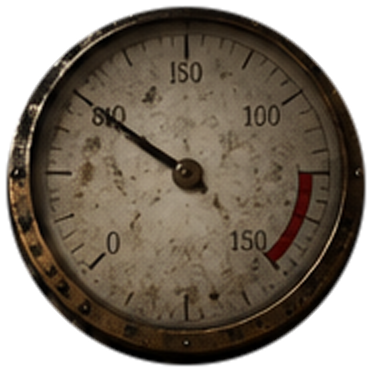
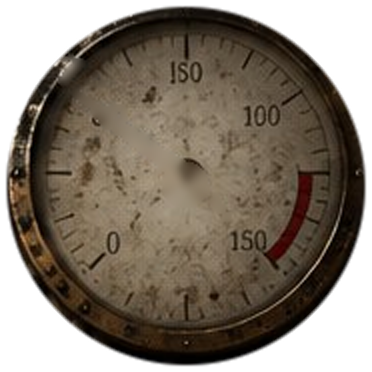
Steampunk gauges: baked needles removed, live animated needles with surges
Claude-Session: https://claude.ai/code/session_016GmCMcG9C3TPKPraZkjEse

Changed region(s): [[0.1478, 0.1478, 0.621, 0.5914]]

diff --git a/docs/index.html b/docs/index.html
@@ -1173,7 +1173,8 @@ function buildWorks(){
   lit(o,back);lit(f,front);
   for(const q of spriteG){const D=q.r*2.4,t=document.createElement('canvas');t.width=t.height=Math.round(D*d);const tx=t.getContext('2d');
     tx.drawImage(q.im,0,0,t.width,t.height);tx.globalCompositeOperation='source-atop';tx.fillStyle=`rgba(0,0,0,${Math.max(0,Math.min(0.75,1.05-lightAt(q.x,q.y)))})`;tx.fillRect(0,0,t.width,t.height);
-    f.fillStyle='rgba(0,0,0,.6)';f.beginPath();f.arc(q.x+q.r*0.12,q.y+q.r*0.2,D*0.48,0,7);f.fill();f.drawImage(t,q.x-D/2,q.y-D/2,D,D)}
+    f.fillStyle='rgba(0,0,0,.6)';f.beginPath();f.arc(q.x+q.r*0.12,q.y+q.r*0.2,D*0.48,0,7);f.fill();f.drawImage(t,q.x-D/2,q.y-D/2,D,D);
+    gauges.push({x:q.x,y:q.y,r:q.r,ph:rnd()*7,sp:0.4+rnd()*1.2,base:0.3+rnd()*0.3})}
   // bulb light: hanging Edison bulbs with a halo (drawn additively, flickers a little)
   const [glow,gl]=mk();
   for(const [bx,by,c] of B.bulbs){
@@ -1209,12 +1210,19 @@ function drawWorks(dt){
   const move=reduce?0:dt,t=performance.now()/1000;
   for(const g2 of w.gears){g2.a+=g2.speed*move;cg.save();cg.translate(g2.x,g2.y);cg.rotate(g2.a);cg.drawImage(g2.c,-g2.s/2,-g2.s/2,g2.s,g2.s);cg.restore()}
   cg.drawImage(w.front,0,0,CW,CH);
-  for(const q of w.gauges){const a=Math.PI*0.75+Math.PI*1.5*(q.base+0.12*Math.sin(t*q.sp*0.35+q.ph)+(reduce?0:0.012*Math.sin(t*19+q.ph)));
-    const lv=Math.min(1,w.lightAt(q.x,q.y));cg.strokeStyle=`rgb(${Math.round(20*lv)},${Math.round(14*lv)},${Math.round(8*lv)})`;cg.lineWidth=Math.max(1.2,q.r*0.05);cg.lineCap='round';
-    cg.beginPath();cg.moveTo(q.x-Math.cos(a)*q.r*0.16,q.y-Math.sin(a)*q.r*0.16);cg.lineTo(q.x+Math.cos(a)*q.r*0.72,q.y+Math.sin(a)*q.r*0.72);cg.stroke();
-    cg.fillStyle='#24180c';cg.beginPath();cg.arc(q.x,q.y,q.r*0.09,0,7);cg.fill();
-    // glass glare
-    cg.strokeStyle='rgba(255,250,235,.12)';cg.lineWidth=q.r*0.1;cg.beginPath();cg.arc(q.x,q.y,q.r*0.78,Math.PI*1.1,Math.PI*1.45);cg.stroke()}
+  // live needles: a slow drift, a nervous tremble, and now and then a surge toward the red
+  for(const q of w.gauges){
+    const surge=Math.max(0,Math.sin(t*0.23+q.ph*3))**12*0.22;
+    const v=q.base+0.1*Math.sin(t*q.sp*0.35+q.ph)+surge+(reduce?0:0.01*Math.sin(t*21+q.ph)+0.006*Math.sin(t*37+q.ph*2));
+    const a=Math.PI*0.75+Math.PI*1.5*Math.min(0.97,v),lv=Math.min(1,w.lightAt(q.x,q.y)*1.1),L=q.r*0.74,T=q.r*0.2,hw=q.r*0.035;
+    cg.save();cg.translate(q.x,q.y);
+    cg.save();cg.translate(q.r*0.03,q.r*0.05);cg.rotate(a);cg.fillStyle='rgba(0,0,0,.35)';cg.beginPath();cg.moveTo(-T,-hw);cg.lineTo(L,-hw*0.15);cg.lineTo(L,hw*0.15);cg.lineTo(-T,hw);cg.fill();cg.restore();
+    cg.rotate(a);const c0=Math.round(26*lv),c1=Math.round(18*lv);cg.fillStyle=`rgb(${c0},${c1},${Math.round(12*lv)})`;
+    cg.beginPath();cg.moveTo(-T,-hw*1.3);cg.lineTo(L,-hw*0.12);cg.lineTo(L+q.r*0.02,0);cg.lineTo(L,hw*0.12);cg.lineTo(-T,hw*1.3);cg.closePath();cg.fill();
+    cg.beginPath();cg.arc(-T,0,hw*2.2,0,7);cg.fill();
+    cg.rotate(-a);const cap=cg.createRadialGradient(-q.r*0.03,-q.r*0.04,0,0,0,q.r*0.11);cap.addColorStop(0,`rgba(${Math.round(230*lv)},${Math.round(200*lv)},${Math.round(140*lv)},1)`);cap.addColorStop(0.6,`rgb(${Math.round(120*lv)},${Math.round(90*lv)},${Math.round(50*lv)})`);cap.addColorStop(1,'#120c06');
+    cg.fillStyle=cap;cg.beginPath();cg.arc(0,0,q.r*0.1,0,7);cg.fill();cg.restore();
+  }
   const fl=reduce?1:0.93+0.05*Math.sin(t*7.3)+0.03*Math.sin(t*17.1);
   cg.save();cg.globalCompositeOperation='lighter';cg.globalAlpha=fl;cg.drawImage(w.glow,0,0,CW,CH);cg.globalAlpha=1;
   if(!reduce)for(const m of w.motes){m.x+=(m.vx+Math.sin(t*0.5+m.ph)*3)*dt;m.y+=m.vy*dt;if(m.y<-4){m.y=CH+4;m.x=Math.random()*CW}
